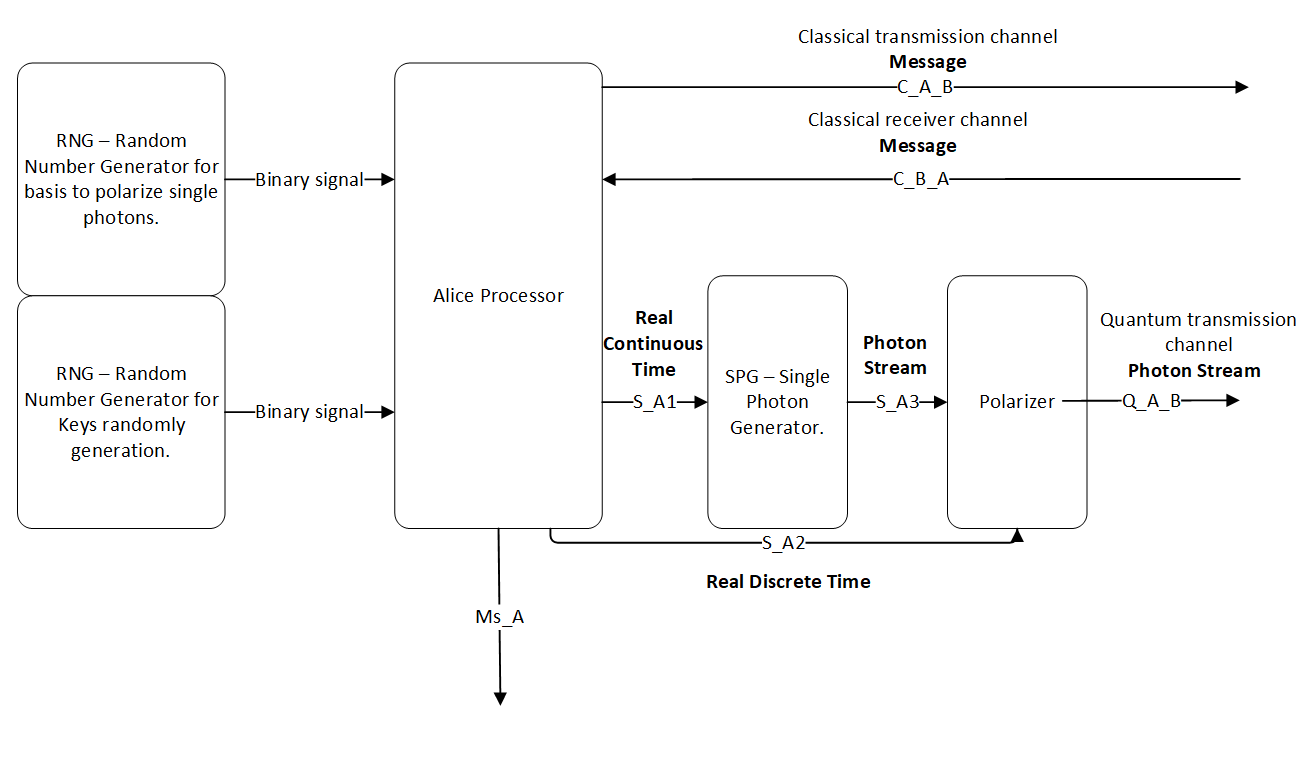
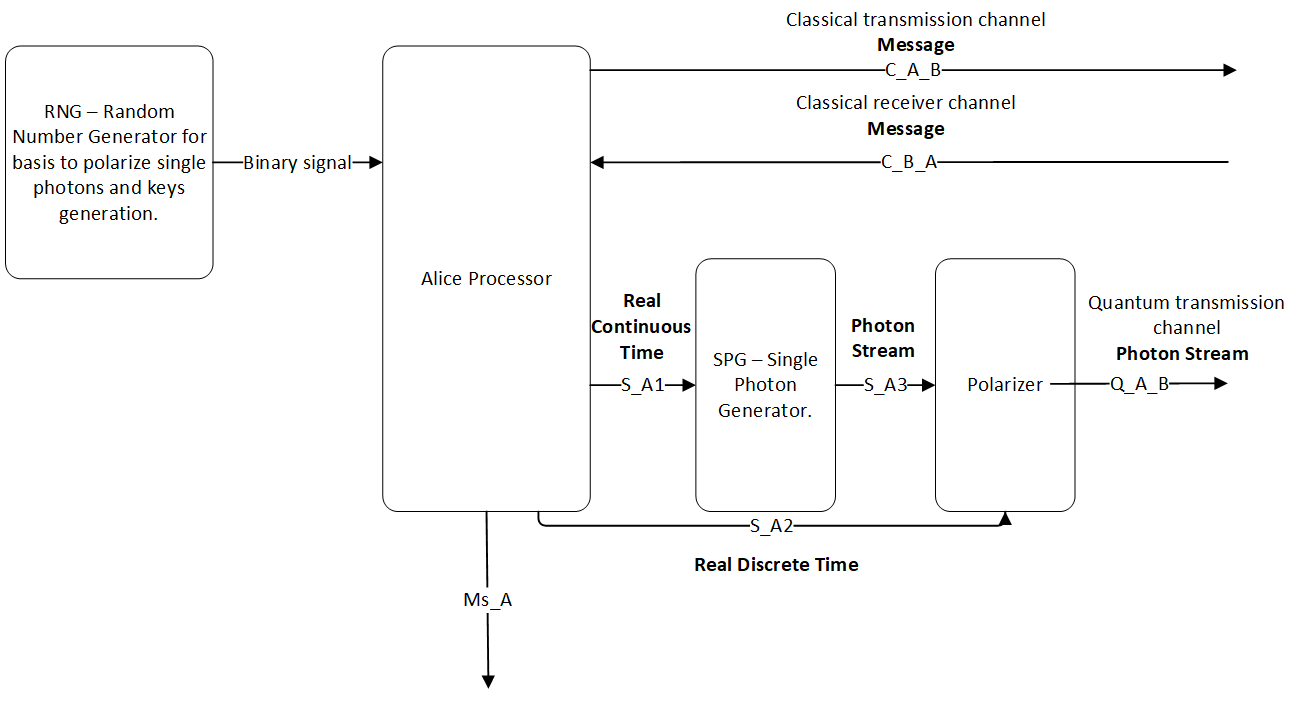
27-10-2017

diff --git a/doc/tex/sdf/ot_with_discrete_variables/ot_with_discrete_variables.tex b/doc/tex/sdf/ot_with_discrete_variables/ot_with_discrete_variables.tex
@@ -21,7 +21,7 @@ In order to implement OT between two parties (Alice and Bob) they must be able t
 \subsection{Quantum Oblivious Key Distribution System (QOKD)}
 
 In this section we are going to describe the Quantum Oblivious Key Distribution system (QOKD).
-The QOKD system enables two parties (Alice and Bob) share a set of keys only known by them. In this QOKD system the sets shared by Alice and Bob have some position bits which Bob measured with the same basis as Alice and other position bits which Bob measured with a different basis. In fact, these sets have tabs which mark sub-sets where they know there are the same number of right and wrong measurements.
+The QOKD system enables two parties (Alice and Bob) to share a set of keys. These keys have the particularity of being half right and half wrong. Only Bob knows which are right and wrong keys.
 
 Considering a discrete variables implementation, both Alice and Bob agree with the following correspondence, where $+$ corresponds to \textit{Rectilinear Basis} and $\times$ corresponds to \textit{Diagonal Basis},
 
@@ -121,7 +121,7 @@ and for \textit{Diagonal Basis}, "$\times$",
 
       Nevertheless, due to errors in transmission, some bits in $S_{B_{rb}}$ may be not right.
 
-      At this point, in order to test Bob's honesty and to estimate the \textit{QBER} of the channel, Alice is going to ask Bob to open some pairs of the Bob's sets. Alice chooses some positions to open and tells Bob which positions she wants to open. Bob sends to Alice the pairs she chose and then these pairs are destroyed from them sets. Lets assume she asked to open the positions $10$, $11$ and $12$. If she concludes Bob is not being honest, she stops the protocol and they must start it again. Otherwise, the protocol continues. Lets assume Alice has verified these pairs using the hash function committed by Bob and concluded that he is being honest. Therefore, she sends to Bob the \textit{QBER} estimated by her.
+      At this point, in order to test Bob's honesty and to estimate the \textit{QBER} of the channel, Alice is going to ask Bob to open some pairs of the Bob's sets. The definition of the protocol to test Bob's honesty is still an open issue. However, depending on the \textit{QBER} estimated by her, Alice must have a parameter to set the number of right position she wants to open, i.e she must open a minimum number of right position in order to guarantee a minimum \textit{QBER}. This will increase the security of the protocol. Alice chooses some positions to open and tells Bob which positions she wants to open. Bob sends to Alice the pairs she chose and then these pairs are eliminated from them sets. Lets assume she asked to open the positions $10$, $11$ and $12$. If she concludes Bob is not being honest, she stops the protocol and they must start it again. Otherwise, the protocol continues. Lets assume Alice has verified these pairs using the hash function committed by Bob and concluded that he is being honest. Therefore, she sends to Bob the \textit{QBER} estimated by her.
 
       Now, Bob has the previous sets replaced by the following,
       \begin{align*}
@@ -173,14 +173,16 @@ and for \textit{Diagonal Basis}, "$\times$",
               S_{B_{rp}} & = \{1,2,5,6,8 \} \\
               S_{B_{rb}} & = \{1,1,0,1,0 \} \\
             \end{align*}
+            
+             In order to test Alice's honesty, Bob must verify if the \textit{QBER} sent by Alice is a realistic value. If it is not he stops the protocol and they must start again. Otherwise, the protocol continues.
 
       \end{enumerate}
 
       After that, Bob needs to apply the Fake Cascade to the set $S_{B_{wb}}$. The main goal of this step is to convince Alice she is performing the real Cascade but she is not.
 
       \begin{enumerate}
-        \item First of all, based on the positions contained in $S_{B_{wb}}$, Bob must build an array with the correspondent bits in a random order and informs Alice the order of positions. In order to best explain this version of the algorithm, lets assume a larger set of bits. 
-            
+        \item First of all, based on the positions contained in $S_{B_{wb}}$, Bob must build an array with the correspondent bits in a random order and informs Alice the order of positions. In order to best explain this version of the algorithm, lets assume a larger set of bits.
+
             Bob sends to Alice throughout a classical channel the new positions order as if it were the permutation step represented in figure \ref{cascadepermutation} in real Cascade algorithm.
 
         \item Assuming each of them has a set with 32 bits randomly organized by Bob, they divide the supposed shifted keys in blocks with N bits according to the estimated error rate. As the \textit{QBER} is the same as for real cascade, Bob will assume the same number of errors, even if he starts for this modified version he can know the number of errors from \textit{QBER} estimated by Alice.
@@ -204,13 +206,18 @@ and for \textit{Diagonal Basis}, "$\times$",
               \item [Step 3:] They divide the sub-block in half again and Bob asks Alice for the parity of the first bit. Alice sends to him the parity equals to her. As the error is not in the first be, it must be in the second, therefore Bob is able to correct this bit with the information sent by Alice.
             \end{description}
 
-            Note that Bob make his choice of which half analyse first using a random bit generator result. If he got "0" he starts with the first half of the sub-block, otherwise, if he got "1", he starts with the second half. In addition, they must discard the last bit of the blocks and sub-blocks in which fake Cascade were applied in order to guarantee that Bob does not gain additional information.
+            Note that Bob make his choice of which half analyse first using a random bit generator result. If he got "0" \  he starts with the first half of the sub-block, otherwise, if he got "1", he starts with the second half. In addition, they must discard the last bit of each block and sub-block in which fake Cascade were applied in order to guarantee that Bob does not gain additional information.
 
-            After apply the fake Cascade to $S_{B_{wb}}$, it must remains the same,
-            $$S_{B_{wb}}  = \{0,1,1,1 \}.$$
+            In this case, after apply the fake Cascade to $S_{B_{wb}}$, lets assume,
+            \begin{align*}
+                S_{B_{wp}} & = \{3,4,7,9 \} \\
+                S_{B_{wb}} & = \{0,1,1,0 \}
+            \end{align*}
 
 
       \end{enumerate}
+      
+      If Bob starts by applying the fake Cascade, he must test Alice's honesty at the beginning of the real Cascade application, based on the number of errors he has. If he thinks that the \textit{QBER} sent by Alice is unrealistic, he stops the protocol at this point.
 
 
   \item When Alice sends to Bob a photons set, they are building a set of pairs (array positions and bit values which correspond to measured photons at Bob's side and to the key bit with the photon was encoded at Alice's side).
@@ -282,12 +289,12 @@ and for \textit{Diagonal Basis}, "$\times$",
         \centering
         \begin{tabular}{c|c c c c c c c c}
          $m$ & 1 & 1 & 0 & 1 & 0 & 0 & 0 & 0 \\
-             & 1 & 1 & 1 & 0 & 0 & 1 & 1 & 1 \\ \hline
-         $\oplus$ & 0 & 0 & 1 & 1 & 0 & 1 & 1 & 1 \\
+             & 1 & 1 & 1 & 0 & 0 & 1 & 1 & 0 \\ \hline
+         $\oplus$ & 0 & 0 & 1 & 1 & 0 & 1 & 1 & 0 \\
         \end{tabular}
         \end{table}
 
-      The first four bits corresponds to message 1 and he received $\{0,0,1,1\}$, which is the right message $m_{0}$ and $\{0,1,1,1\}$ which is a wrong message for $m_{1}$.
+      The first four bits corresponds to message 1 and he received $\{0,0,1,1\}$, which is the right message $m_{0}$ and $\{0,1,1,0\}$ which is a wrong message for $m_{1}$.
 
 
 \end{enumerate}
@@ -316,7 +323,7 @@ As one may see in figure \ref{toplevelsimulation} this simulation will have thre
 	\caption{Simulation diagram - Alice's side}\label{simulationalice}
 \end{figure}
 
-    In figure \ref{simulationalice} one can observe a block diagram of the simulation at Alice's side. As it is shown in the figure, Alice must have two blocks for random number generation: one for basis generation in order to polarize the photons according this basis, and other for key random generation in order to have a random state to encode each photon. Furthermore, she has a Processor block for all logical operations: array analysis, hash function results validation, and others. This block also receives the start information, i.e. message size s, the expansion factor k and messages $m_{0}$ and $m_{1}$, as well as information from Bob, i.e sets $I_{0}$ and $I_{1}$, hash function results, and others. This block also must be responsible for send classical information to Bob. Finally, Processor block will also send a real continuous time signal to single photon generator, in order to generate photons according to this signal, and finally this block also sends to polarizer a real discrete signal in order to inform the polarizer which basis it should use. Therefore, she has two more blocks for quantum tasks: the single photon generator and the polarizer block which is responsible to encode the photons generated from the previous block and send them throughout a quantum channel from Alice to Bob.
+    In figure \ref{simulationalice} one can observe a block diagram of the simulation at Alice's side. As it is shown in the figure, Alice must have one block for random number generation which is responsible for basis generation to polarize the photons, and for key random generation in order to have a random state to encode each photon. Furthermore, she has a Processor block for all logical operations: array analysis, hash function results validation, random number generation requests, and others. This block also receives the start information, i.e. message size s and messages $m_{0}$ and $m_{1}$, as well as information from Bob, i.e sets $I_{0}$ and $I_{1}$, hash function results, and others. In addition it is responsible for set the initial length $l$ of the first array of photons which will send to Bob. This block also must be responsible for send classical information to Bob. Finally, Processor block will also send a real continuous time signal to single photon generator, in order to generate photons according to this signal, and finally this block also sends to polarizer a real discrete signal in order to inform the polarizer which basis it should use. Therefore, she has two more blocks for quantum tasks: the single photon generator and the polarizer block which is responsible to encode the photons generated from the previous block and send them throughout a quantum channel from Alice to Bob.
 
     Finally, Alice's processor has an output to Mutual Information top level block, $Ms_{A}$.
 
@@ -328,7 +335,7 @@ As one may see in figure \ref{toplevelsimulation} this simulation will have thre
 	\caption{Simulation diagram - Bob's side}\label{simulationbob}
 \end{figure}
 
-    In figure \ref{simulationbob} one can observe a block diagram of the simulation at Bob's side. From this side, Bob only has one block for Random Number Generation which is responsible for randomly generate basis values which Bob will use to measure the photons sent by Alice throughout the quantum channel. Like Alice, Bob has a Processor block responsible for all logical tasks, i.e Hash function generation, analysing functions, etc. It receives information from Alice throughout a classical channel and a quantum channel but it sends information to Alice only throughout a classical channel. Furthermore, Bob has one more block for single photon detection which receives from processor block a real discrete time signal, in order to obtain the basis it should use to measure the photons.
+    In figure \ref{simulationbob} one can observe a block diagram of the simulation at Bob's side. From this side, Bob has one block for Random Number Generation which is responsible for randomly generate basis values which Bob will use to measure the photons sent by Alice throughout the quantum channel. Furthermore, this Block will generate the random bits that Bob needs in Modified Version of Cascade Algorithm. Like Alice, Bob has a Processor block responsible for all logical tasks, i.e Hash function generation, analysing functions, requests for random number generator block, etc. Additionally, it receives information from Alice throughout a classical channel and a quantum channel but it sends information to Alice only throughout a classical channel. Furthermore, Bob has one more block for single photon detection which receives from processor block a real discrete time signal, in order to obtain the basis it should use to measure the photons.
 
     Finally, Bob's processor has an output to Mutual Information top level block, $Ms_{B}$.
 
